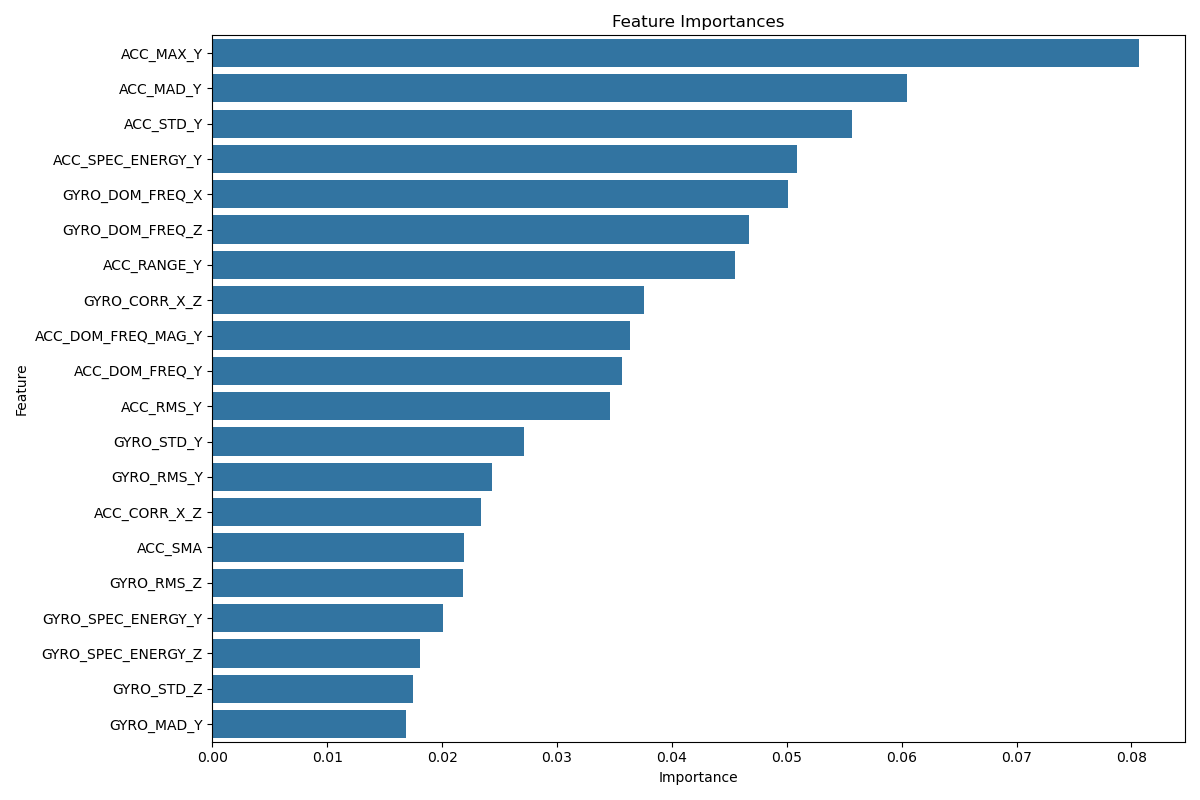
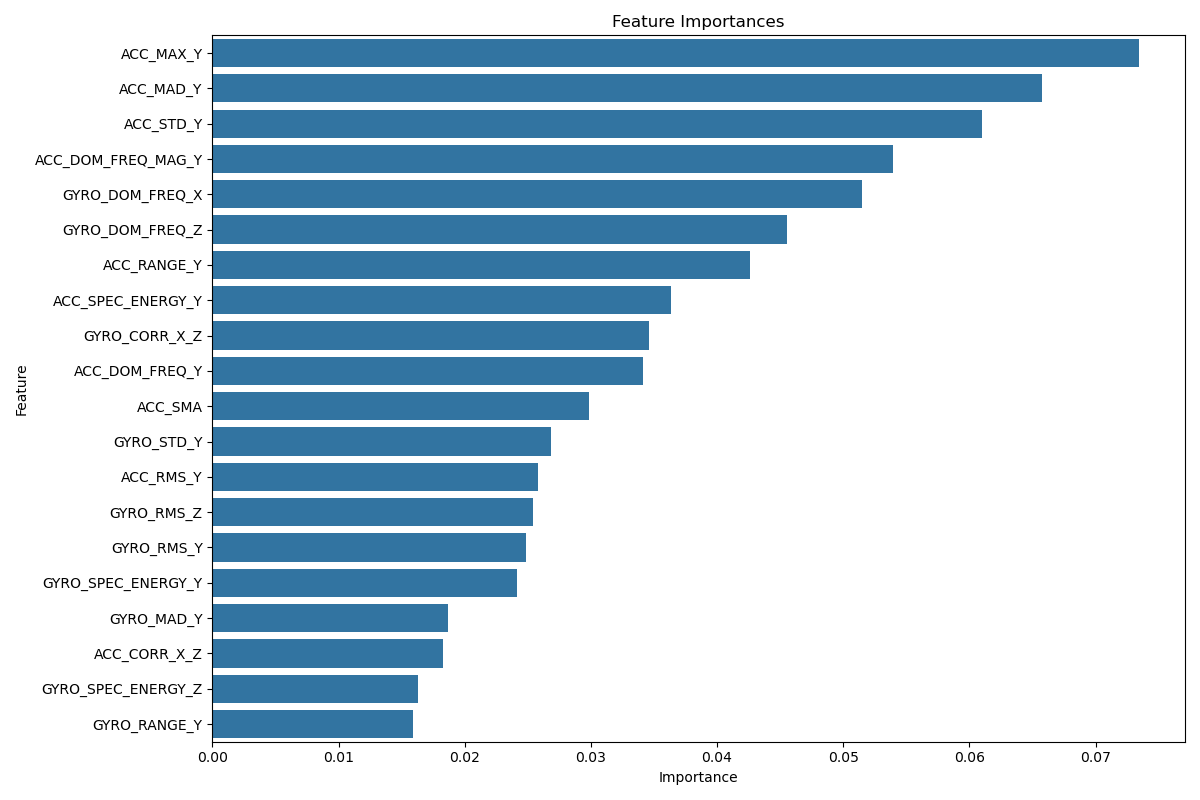
Training with normalization after feature extraction

diff --git a/06_training/training_random_forest.py b/06_training/training_random_forest.py
@@ -4,6 +4,7 @@ import numpy as np
 import matplotlib.pyplot as plt
 import seaborn as sns
 from sklearn.ensemble import RandomForestClassifier
+from sklearn.preprocessing import StandardScaler
 from sklearn.model_selection import GridSearchCV, cross_val_score, GroupKFold
 from sklearn.metrics import accuracy_score, classification_report, confusion_matrix
 import joblib
@@ -193,6 +194,23 @@ def main():
         # Perform session-aware train-test split
         X_train, X_test, y_train, y_test = session_aware_train_test_split(data, test_size=0.3, random_state=42)
     
+    # Apply normalization using StandardScaler
+    print("Applying StandardScaler normalization to features...")
+    scaler = StandardScaler()
+    X_train_scaled = scaler.fit_transform(X_train)
+    X_test_scaled = scaler.transform(X_test)
+    
+    # Convert back to DataFrame to maintain column names for feature importance visualization
+    X_train_scaled = pd.DataFrame(X_train_scaled, columns=X_train.columns, index=X_train.index)
+    X_test_scaled = pd.DataFrame(X_test_scaled, columns=X_test.columns, index=X_test.index)
+    
+    # Calculate statistics on the normalized data (fix the numpy std issue by specifying axis)
+    mean_first_features = np.mean(X_train_scaled.iloc[:, :5].values)
+    std_first_features = np.std(X_train_scaled.iloc[:, :5].values, axis=0).mean()
+    
+    print(f"Features normalized. Mean of first 5 features: {mean_first_features:.5f}")
+    print(f"Standard deviation of first 5 features: {std_first_features:.5f}")
+    
     # Get session IDs for group-based cross-validation
     # Extract session IDs from the training data
     groups_train = X_train.index.get_level_values('session_id') if 'session_id' in X_train.index.names else None
@@ -201,21 +219,29 @@ def main():
     if groups_train is None and hasattr(X_train, 'session_id'):
         groups_train = X_train['session_id'].values
     
-    # Train model with hyperparameter tuning
+    # Train model with hyperparameter tuning - now using normalized data
     best_model, best_params = train_random_forest_with_cv(
-        X_train, y_train, 
+        X_train_scaled, y_train, 
         groups_train=groups_train,  # Use session IDs for GroupKFold
         cv=5, 
         random_state=42
     )
     
-    # Evaluate model
+    # Evaluate model using normalized test data
     class_names = list(np.unique(y_train))
-    evaluate_model(best_model, X_test, y_test, class_names)
+    evaluate_model(best_model, X_test_scaled, y_test, class_names)
+    
+    # Create results directory if it doesn't exist
+    os.makedirs('results', exist_ok=True)
     
     # Save model
     model_output_path = 'results/random_forest_model.joblib'
     save_model(best_model, model_output_path)
+    
+    # Save scaler for future predictions
+    scaler_output_path = 'results/standard_scaler.joblib'
+    joblib.dump(scaler, scaler_output_path)
+    print(f"Scaler saved to {scaler_output_path}")
     
     # Save hyperparameters
     with open('results/hyperparameters.txt', 'w') as f:
